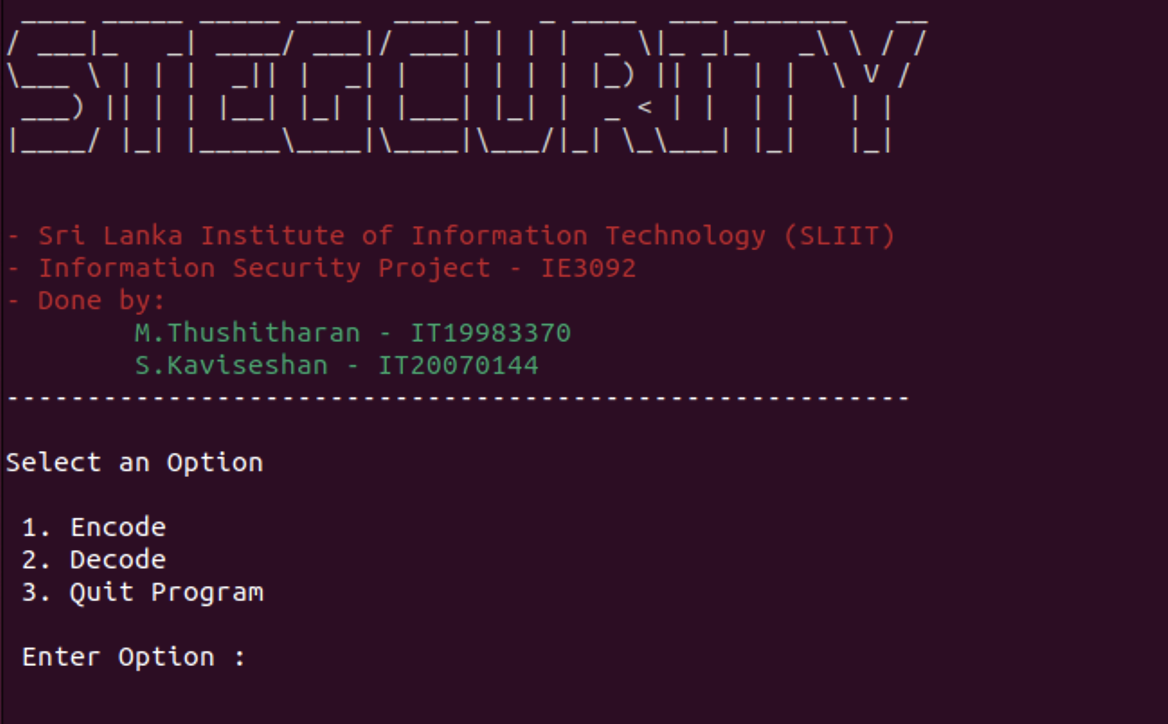
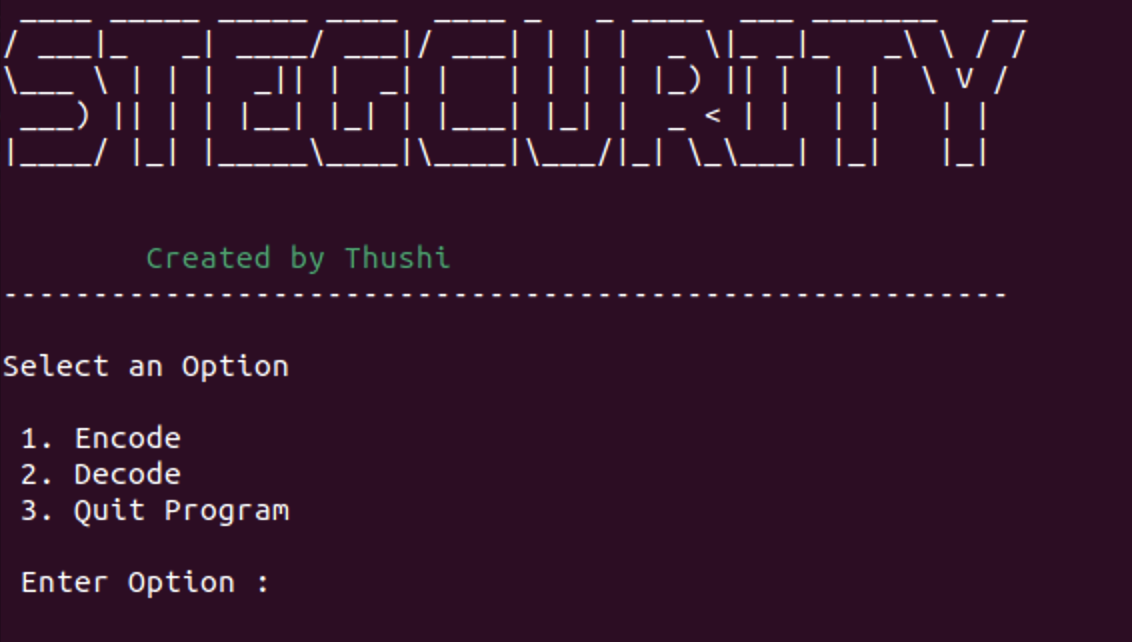
Few color based modifications

diff --git a/stegcurity.py b/stegcurity.py
@@ -7,8 +7,7 @@ from termcolor import colored
   
 motdBanner = pyfiglet.figlet_format("STEGCURITY")
 print(motdBanner)
-print(colored('- Sri Lanka Institute of Information Technology (SLIIT)\n- Information Security Project - IE3092\n- Done by:', 'red'))
-print(colored('\tM.Thushitharan - IT19983370\n\tS.Kaviseshan - IT20070144', 'green'))
+print(colored('\tCreated by Thushi', 'green'))
 print("--------------------------------------------------------")
 
 

diff --git a/README.md b/README.md
@@ -10,7 +10,7 @@ Stegcurity is a python based stegnography tool designed to hide messages in to t
 ## Installation
 
 ```
-git clone https://gitlab.com/thushi99/isp-stegnography-tool.git
+git clone https://github.com/thushi99/stegcurity
 ```
 
 ## Recommended Python Version:
@@ -99,11 +99,6 @@ or
 ```
 python3 stegcurity.py
 ```
-
-
-## Thanks
-
-* Special Thanks to our Lecturer [Dr. Lakmal Rupasinghe](https://www.sliit.lk/faculty-of-computing/staff/lakmal.r/) and [Eshandi Aththanayaka](https://www.sliit.lk/faculty-of-computing/staff/eshandi.a/) for their great support that helped in creating and improving the tool.
 
 ## Restrictions
 * Currently this version support for hiding messages only within `.png` format Images
